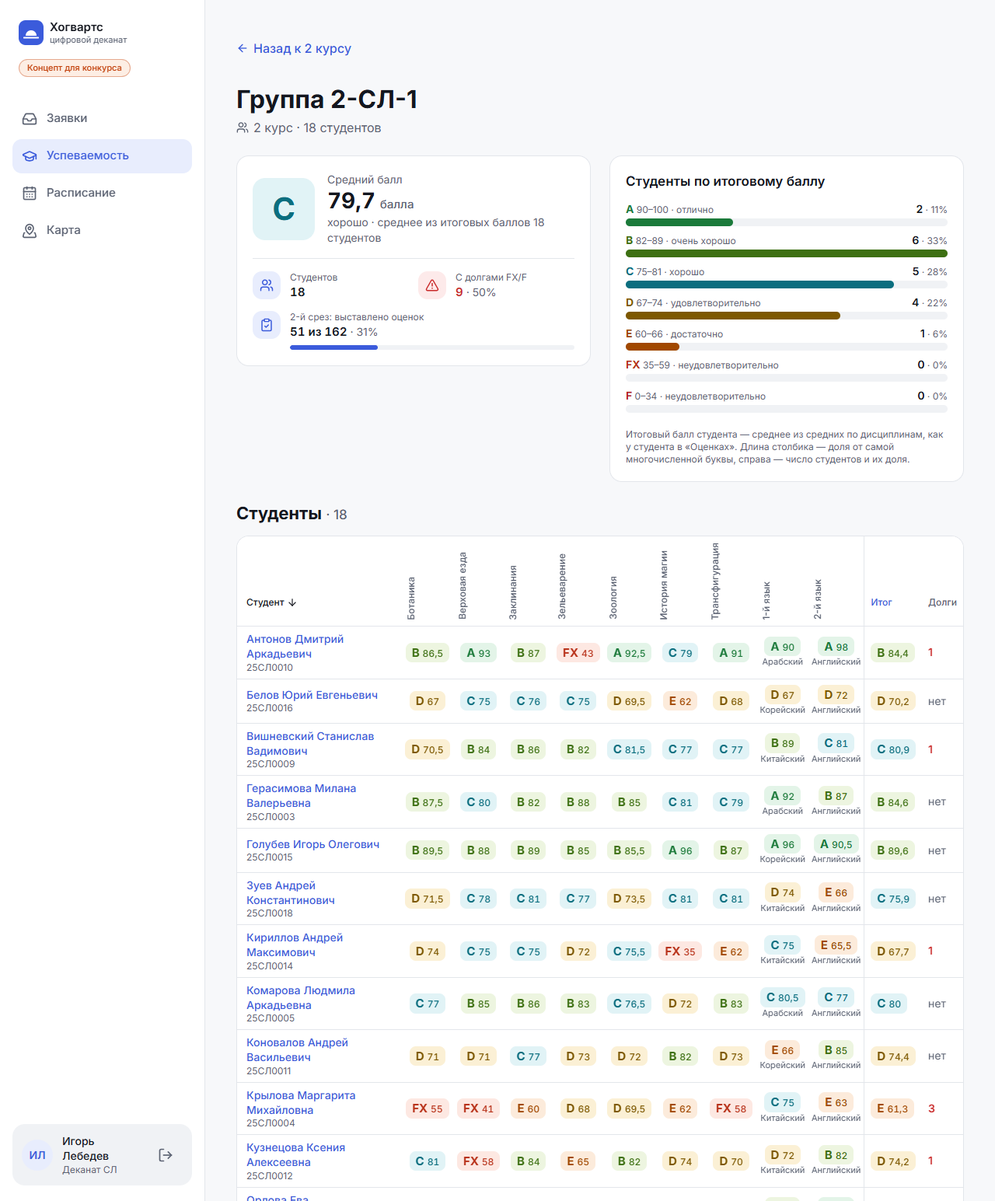
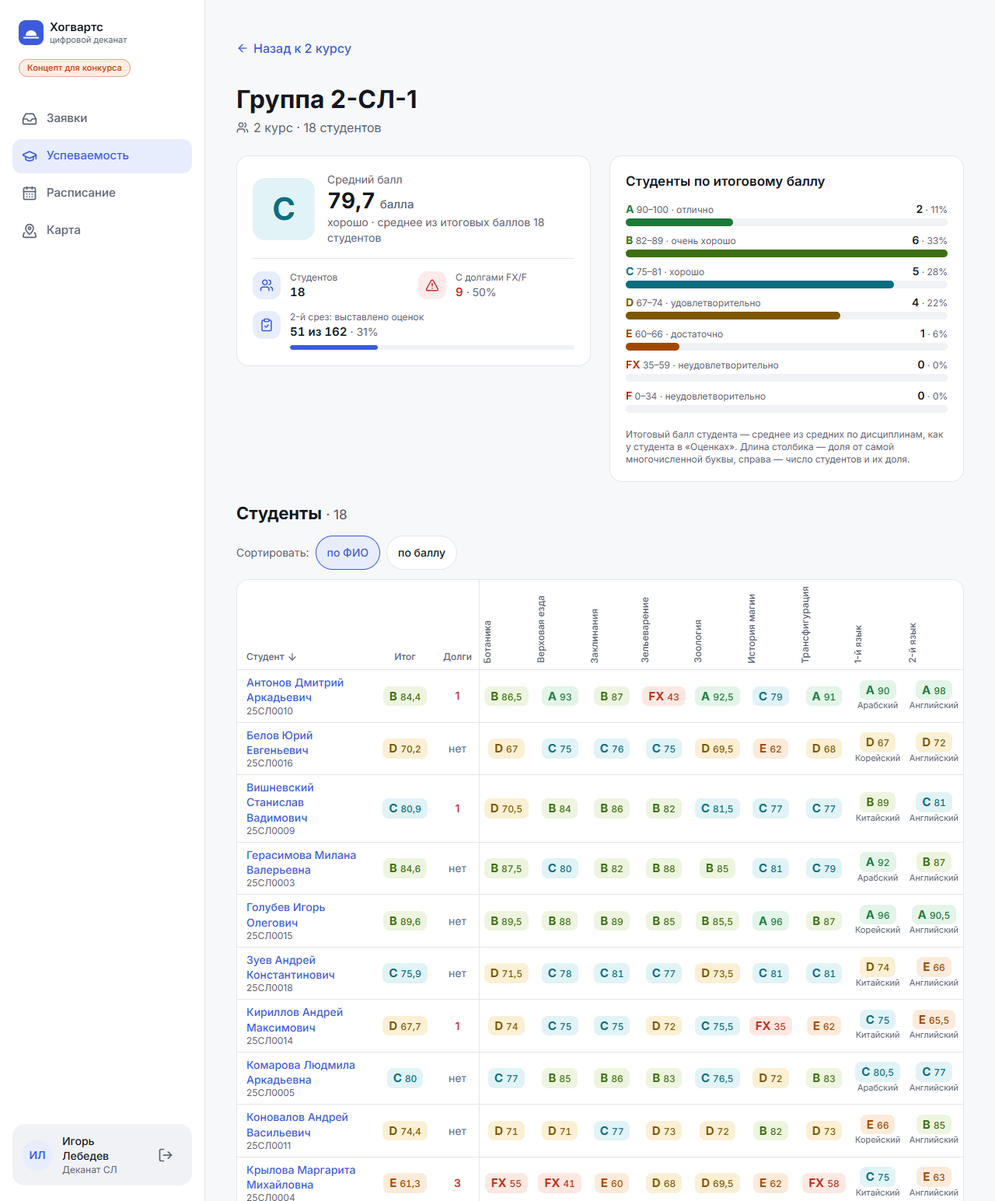
Уместить таблицу группы на ноутбуке: «Итог» и «Долги» рядом со студентом
- «Итог» и «Долги» — сразу после колонки «Студент» и липкие вместе с ней.
- На 1024–1279 px оценка в ячейке — буква над баллами (GradeBadge size="cell"),
  ячейки и подписи языков уже; с 1280 px — как раньше, в строку.
- Сортировка «по ФИО / по баллу» — чипами над таблицей на всех ширинах.
- Все 48 групп помещаются без прокрутки на 1024 и 1280; скриншоты 1280 и 1024.

diff --git a/components/dean-grades/group-table.tsx b/components/dean-grades/group-table.tsx
@@ -33,36 +33,38 @@ function Cell({ grade, label }: { grade: GroupCell["average"] | undefined; label
       </span>
     );
   }
-  return <GradeBadge grade={grade} size="sm" />;
+  return <GradeBadge grade={grade} size="cell" />;
 }
 
 const debtsLabel = (n: number) => `${n} ${plural(n, ["долг", "долга", "долгов"])}`;
 
 /**
- * Оценки группы. Компьютер (≥ 1024 px) — таблица «студенты × дисциплины»: средний балл по дисциплине
- * цветной буквой, итоговый балл, долги; липкие шапка и первая колонка, прокрутка внутри своей рамки.
- * Дисциплины языковых групп — колонки «1-й язык», «2-й язык» (у соседей это разные языки).
- * Телефон — список студентов с итоговым баллом и числом долгов. Клик по студенту — его оценки.
+ * Липкие слева колонки таблицы: «Студент», «Итог», «Долги» — главное видно без прокрутки на любой ширине.
+ * Ширины заданы явно (left следующей = сумма ширин предыдущих): ноутбук 1024 — уже, с xl — шире.
+ */
+const STICKY = {
+  student: "sticky left-0 w-40 min-w-40 max-w-40 xl:w-44 xl:min-w-44 xl:max-w-44",
+  overall: "sticky left-40 w-16 min-w-16 max-w-16 xl:left-44 xl:w-20 xl:min-w-20 xl:max-w-20",
+  debts: "sticky left-56 w-14 min-w-14 max-w-14 xl:left-64 border-r border-border",
+} as const;
+
+/**
+ * Оценки группы. Над списком/таблицей — сортировка чипами «по ФИО / по баллу» (на всех ширинах).
+ * Компьютер (≥ 1024 px) — таблица «студенты × дисциплины»: слева липкие «Студент», «Итог» и «Долги»,
+ * дальше средний балл по каждой дисциплине цветной буквой (до xl — буква над баллами, чтобы колонки были узкими);
+ * липкая шапка, прокрутка внутри своей рамки. Дисциплины языковых групп — колонки «1-й язык», «2-й язык»
+ * (у соседей это разные языки). Телефон — список студентов с итоговым баллом и числом долгов. Клик — оценки студента.
  */
 export function GroupTable({ data, sort, sortHref }: { data: GroupGrades; sort: GroupSort; sortHref: (s: GroupSort) => string }) {
   const rows = sortGroupRows(data.students, sort);
   const langCols = Array.from({ length: data.languageColumns }, (_, i) => i);
-
-  const sortLink = (s: GroupSort, label: string) => (
-    <Link
-      href={sortHref(s)}
-      scroll={false}
-      className={cn("inline-flex min-h-11 min-w-11 items-center gap-1 underline-offset-2 hover:underline", sort === s ? "text-text" : "text-primary")}
-    >
-      {label}
-      {sort === s && <ArrowDown className="size-3.5" aria-hidden />}
-      <span className="sr-only">{sort === s ? " — отсортировано" : " — сортировать"}</span>
-    </Link>
-  );
+  const head = "sticky top-0 border-b border-border bg-surface";
+  const cell = "border-b border-border group-hover:bg-surface-muted";
+  const foot = "sticky bottom-0 border-t border-border bg-surface-muted";
 
   return (
     <>
-      <div className="flex flex-wrap items-center gap-2 lg:hidden" role="group" aria-label="Сортировка">
+      <div className="flex flex-wrap items-center gap-2" role="group" aria-label="Сортировка студентов">
         <span className="text-sm text-muted">Сортировать:</span>
         {(["name", "overall"] as const).map((s) => (
           <Link
@@ -72,7 +74,7 @@ export function GroupTable({ data, sort, sortHref }: { data: GroupGrades; sort: 
             aria-current={sort === s ? "true" : undefined}
             className={cn(
               "inline-flex min-h-11 items-center rounded-full border px-3.5 text-sm font-medium",
-              sort === s ? "border-primary bg-primary-soft text-primary" : "border-border bg-surface text-text",
+              sort === s ? "border-primary bg-primary-soft text-primary" : "border-border bg-surface text-text hover:bg-surface-muted",
             )}
           >
             {s === "name" ? "по ФИО" : "по баллу"}
@@ -120,127 +122,134 @@ export function GroupTable({ data, sort, sortHref }: { data: GroupGrades; sort: 
       >
         <table className="w-full border-separate border-spacing-0 text-sm">
           <caption className="sr-only">
-            Средний балл студентов группы {data.group.name} по дисциплинам, итоговый балл и долги
+            Итоговый балл и долги студентов группы {data.group.name}, средний балл по каждой дисциплине
           </caption>
           <thead>
             <tr className="align-bottom text-xs text-muted">
               <th
                 scope="col"
                 aria-sort={sort === "name" ? "ascending" : "none"}
-                className="sticky top-0 left-0 z-30 min-w-40 border-b border-border bg-surface px-3 py-2 text-left font-medium"
+                className={cn(head, STICKY.student, "z-30 px-3 py-2 text-left font-medium")}
               >
-                {sortLink("name", "Студент")}
+                <span className="inline-flex items-center gap-1">
+                  Студент
+                  {sort === "name" && <ArrowDown className="size-3.5" aria-hidden />}
+                </span>
+              </th>
+              <th
+                scope="col"
+                aria-sort={sort === "overall" ? "descending" : "none"}
+                className={cn(head, STICKY.overall, "z-30 px-1.5 py-2 text-center font-medium")}
+              >
+                <span className="inline-flex items-center gap-0.5">
+                  Итог
+                  {sort === "overall" && <ArrowDown className="size-3.5" aria-hidden />}
+                </span>
+              </th>
+              <th scope="col" className={cn(head, STICKY.debts, "z-30 px-1.5 py-2 text-center font-medium")}>
+                Долги
               </th>
               {data.disciplines.map((d) => (
-                <th key={d.id} scope="col" title={d.name} className="sticky top-0 z-20 border-b border-border bg-surface px-1 py-2 font-medium">
+                <th key={d.id} scope="col" title={d.name} className={cn(head, "z-20 px-0.5 py-2 font-medium")}>
                   <span className="mx-auto block max-h-36 [writing-mode:vertical-rl] rotate-180 text-left leading-tight break-words">
                     {d.name}
                   </span>
                 </th>
               ))}
               {langCols.map((i) => (
-                <th key={`l${i}`} scope="col" className="sticky top-0 z-20 border-b border-border bg-surface px-1 py-2 font-medium">
+                <th key={`l${i}`} scope="col" className={cn(head, "z-20 px-0.5 py-2 font-medium")}>
                   <span className="mx-auto block max-h-36 [writing-mode:vertical-rl] rotate-180 text-left leading-tight">
                     {languageTitle(i + 1)}
                   </span>
                 </th>
               ))}
-              <th
-                scope="col"
-                aria-sort={sort === "overall" ? "descending" : "none"}
-                className="sticky top-0 z-20 border-b border-l border-border bg-surface px-2 py-2 text-left font-medium"
-              >
-                {sortLink("overall", "Итог")}
-              </th>
-              <th scope="col" className="sticky top-0 z-20 border-b border-border bg-surface px-2 py-2 text-left font-medium">
-                <span className="inline-flex min-h-11 items-center">Долги</span>
-              </th>
             </tr>
           </thead>
           <tbody>
             {rows.map((r) => (
               <tr key={r.recordBookNo} className="group">
-                <th
-                  scope="row"
-                  className="sticky left-0 z-10 border-b border-border bg-surface px-3 py-1.5 text-left font-normal group-hover:bg-surface-muted"
-                >
+                <th scope="row" className={cn(cell, STICKY.student, "z-10 bg-surface px-3 py-1.5 text-left font-normal")}>
                   <Link href={deanStudentHref(r.recordBookNo)} className="flex min-h-11 flex-col justify-center">
-                    <span className="leading-snug font-medium text-primary underline-offset-2 hover:underline">{r.fullName}</span>
+                    <span className="leading-snug font-medium break-words text-primary underline-offset-2 hover:underline">
+                      {r.fullName}
+                    </span>
                     <span className="text-xs text-muted">{r.recordBookNo}</span>
                   </Link>
                 </th>
+                <td className={cn(cell, STICKY.overall, "z-10 bg-surface px-1 py-1.5 text-center")}>
+                  {r.overall ? <GradeBadge grade={r.overall} size="cell" /> : <span className="text-muted">—</span>}
+                </td>
+                <td className={cn(cell, STICKY.debts, "z-10 bg-surface px-1 py-1.5 text-center")}>
+                  {r.debts.length === 0 ? (
+                    <span className="text-muted">нет</span>
+                  ) : (
+                    <span className="font-semibold text-danger" title={r.debts.map((d) => `${d.letter} — ${d.discipline}`).join(", ")}>
+                      {r.debts.length}
+                      <span className="sr-only">: {r.debts.map((d) => `${d.letter} — ${d.discipline}`).join(", ")}</span>
+                    </span>
+                  )}
+                </td>
                 {data.disciplines.map((d) => (
-                  <td key={d.id} className="border-b border-border px-1 py-1.5 text-center group-hover:bg-surface-muted">
+                  <td key={d.id} className={cn(cell, "px-0.5 py-1.5 text-center")}>
                     <Cell grade={d.id in r.cells ? r.cells[d.id] : undefined} label={d.name} />
                   </td>
                 ))}
                 {langCols.map((i) => {
                   const items = r.languages[i] ?? [];
                   return (
-                    <td key={`l${i}`} className="border-b border-border px-1 py-1.5 text-center group-hover:bg-surface-muted">
+                    <td key={`l${i}`} className={cn(cell, "px-0.5 py-1.5 text-center")}>
                       {items.length === 0 ? (
                         <Cell grade={undefined} label={languageTitle(i + 1)} />
                       ) : (
                         items.map((it) => (
-                          <span key={it.disciplineId} className="flex flex-col items-center" title={`${it.discipline}: ${it.average ? formatScored(it.average) : "нет оценок"}`}>
+                          <span
+                            key={it.disciplineId}
+                            className="flex flex-col items-center"
+                            title={`${it.discipline}: ${it.average ? formatScored(it.average) : "нет оценок"}`}
+                          >
                             <Cell grade={it.average} label={it.discipline} />
-                            <span className="max-w-20 truncate text-[11px] text-muted">{it.discipline.split(" ")[0]}</span>
+                            <span className="max-w-12 truncate text-[10px] text-muted xl:max-w-16 xl:text-[11px]">
+                              {it.discipline.split(" ")[0]}
+                            </span>
                           </span>
                         ))
                       )}
                     </td>
                   );
                 })}
-                <td className="border-b border-l border-border px-2 py-1.5 group-hover:bg-surface-muted">
-                  {r.overall ? <GradeBadge grade={r.overall} size="sm" /> : <span className="text-muted">—</span>}
-                </td>
-                <td className="border-b border-border px-2 py-1.5 group-hover:bg-surface-muted">
-                  {r.debts.length === 0 ? (
-                    <span className="text-muted">нет</span>
-                  ) : (
-                    <span
-                      className="font-semibold text-danger"
-                      title={r.debts.map((d) => `${d.letter} — ${d.discipline}`).join(", ")}
-                    >
-                      {r.debts.length}
-                      <span className="sr-only">: {r.debts.map((d) => `${d.letter} — ${d.discipline}`).join(", ")}</span>
-                    </span>
-                  )}
-                </td>
               </tr>
             ))}
           </tbody>
           <tfoot>
             <tr className="text-xs">
-              <th scope="row" className="sticky bottom-0 left-0 z-30 border-t border-border bg-surface-muted px-3 py-2 text-left font-medium">
+              <th scope="row" className={cn(foot, STICKY.student, "z-30 px-3 py-2 text-left font-medium")}>
                 Средний по группе
               </th>
+              <td className={cn(foot, STICKY.overall, "z-30 px-1 py-2 text-center")}>
+                {data.summary.average ? <GradeBadge grade={data.summary.average} size="cell" /> : <span className="text-muted">—</span>}
+              </td>
+              <td className={cn(foot, STICKY.debts, "z-30 px-1 py-2 text-center font-semibold text-danger")}>
+                {data.summary.withDebt > 0 ? data.summary.withDebt : <span className="font-normal text-muted">нет</span>}
+              </td>
               {data.disciplines.map((d) => (
-                <td key={d.id} className="sticky bottom-0 z-20 border-t border-border bg-surface-muted px-1 py-2 text-center">
+                <td key={d.id} className={cn(foot, "z-20 px-0.5 py-2 text-center")}>
                   <Cell grade={d.average} label={d.name} />
                 </td>
               ))}
               {langCols.map((i) => (
-                <td key={`l${i}`} className="sticky bottom-0 z-20 border-t border-border bg-surface-muted px-1 py-2 text-center text-muted">
+                <td key={`l${i}`} className={cn(foot, "z-20 px-0.5 py-2 text-center text-muted")}>
                   <span aria-hidden>·</span>
                   <span className="sr-only">разные языки</span>
                 </td>
               ))}
-              <td className="sticky bottom-0 z-20 border-t border-l border-border bg-surface-muted px-2 py-2">
-                {data.summary.average ? <GradeBadge grade={data.summary.average} size="sm" /> : <span className="text-muted">—</span>}
-              </td>
-              <td className="sticky bottom-0 z-20 border-t border-border bg-surface-muted px-2 py-2 font-semibold text-danger">
-                {data.summary.withDebt > 0 ? data.summary.withDebt : <span className="font-normal text-muted">нет</span>}
-              </td>
             </tr>
           </tfoot>
         </table>
       </div>
       <p className="hidden text-xs text-muted lg:block">
         В ячейке — средний балл по выставленным срезам. «—» — оценок пока нет, «·» — дисциплины у студента нет. В строке
-        «Средний по группе» — среднее из средних студентов, в колонке «Долги» итога — студентов с долгами.
+        «Средний по группе» — среднее из средних студентов, в колонке «Долги» — студентов с долгами.
       </p>
     </>
   );
 }
-

diff --git a/components/grades/grade-badge.tsx b/components/grades/grade-badge.tsx
@@ -5,6 +5,12 @@ import { cn } from "@/lib/utils";
 const SIZES = {
   sm: { box: "gap-1 rounded-lg px-2 py-0.5", letter: "text-[15px]", points: "text-xs" },
   md: { box: "gap-1.5 rounded-xl px-2.5 py-1", letter: "text-[20px]", points: "text-sm" },
+  /** Ячейка широкой таблицы: на ноутбуке (до xl) — буква над баллами, узкая; с xl — как sm */
+  cell: {
+    box: "gap-1 rounded-lg px-2 py-0.5 max-xl:flex-col max-xl:items-center max-xl:gap-0 max-xl:px-1.5 max-xl:py-1",
+    letter: "text-[15px] max-xl:text-[13px] max-xl:leading-none",
+    points: "text-xs max-xl:text-[11px] max-xl:leading-tight",
+  },
 } as const;
 
 /**

diff --git a/docs/DESIGN.md b/docs/DESIGN.md
@@ -91,7 +91,7 @@ _План (ещё не сделано):_ колокольчик уведомле
 | `CheckpointTrendChart`, `DisciplineAveragesChart` | графики «Динамика по срезам» и «Средний балл по дисциплинам» — свой SVG, только токены; неполный срез — полая точка, пунктир и «по N из M» |
 | `SemesterSwitcher` | сегменты семестров (ссылки); сегмент ≥ 48 px, текущий — с подписью; не помещаются (4-й курс на телефоне) — ряд прокручивается, правый край «тает» |
 | `TodayGradesLink` | блок «Оценки» на «Сегодня»: итоговый балл, последняя оценка, «Ниже порога: N» |
-| `CohortSummaryCard`, `LetterDistribution`, `CourseGroups`, `RiskList`, `JournalFillList`, `GroupTable`, `StudentSearch` | «Успеваемость» деканата (`components/dean-grades/`): сводка курса/группы, распределение по буквам (свой SVG), группы (таблица ≥ 1024 px / карточки), группа риска с фильтром-ссылками по дисциплине, заполнение журналов, таблица группы «студенты × дисциплины» (липкие шапка, первая колонка и строка «Средний по группе», прокрутка внутри рамки; телефон — список), поиск студента с подсказками. Студент для деканата — те же `GradesSummary`/`DisciplineCard` с `viewer="staff"` (без советов «спросите…») |
+| `CohortSummaryCard`, `LetterDistribution`, `CourseGroups`, `RiskList`, `JournalFillList`, `GroupTable`, `StudentSearch` | «Успеваемость» деканата (`components/dean-grades/`): сводка курса/группы, распределение по буквам (свой SVG), группы (таблица ≥ 1024 px / карточки), группа риска с фильтром-ссылками по дисциплине, заполнение журналов, таблица группы «студенты × дисциплины» (липкие шапка, колонки «Студент», «Итог», «Долги» слева и строка «Средний по группе», прокрутка внутри рамки; на 1024–1279 px оценка в ячейке — буква над баллами (`GradeBadge size="cell"`), чтобы таблица помещалась; сортировка «по ФИО / по баллу» — чипами над таблицей на всех ширинах; телефон — список), поиск студента с подсказками. Студент для деканата — те же `GradesSummary`/`DisciplineCard` с `viewer="staff"` (без советов «спросите…») |
 | `AssignmentCard`, `JournalGroups`, `JournalEditor` | журнал преподавателя: карточки групп с прогрессом срезов; редактор оценок — таблица на ≥ 1024 px, карточки студентов на телефоне (`components/journal/`) |
 | `StatusBadge` | заявки: Подана · В работе · Готова · Выдана · Отклонена |
 | `StatusTimeline` | детальная страница заявки: пройденные шаги, текущий, будущие |

diff --git a/docs/specs/dean-grades.md b/docs/specs/dean-grades.md
@@ -37,7 +37,8 @@
      самые отстающие (видно, кто не выставил).
    - «Группа риска»: студенты курса с непогашенным FX/F (ФИО, зачётка, группа, дисциплины), с фильтром по дисциплине.
 2. `/staff/grades/group/[groupId]` — **группа**: компьютер — таблица «студенты × дисциплины» (средний балл
-   по дисциплине цветной буквой, итоговый балл, долги), липкие шапка и первая колонка, сортировка по ФИО / баллу;
+   по дисциплине цветной буквой, итоговый балл, долги), липкие шапка и колонки «Студент», «Итог», «Долги» (сразу после ФИО),
+   сортировка по ФИО / баллу чипами над таблицей;
    телефон — список студентов с итоговым баллом и числом долгов. Клик → студент.
 3. `/staff/grades/student/[recordBookNo]` — **студент по номеру зачётки**: шапка (ФИО, зачётка, группа, курс),
    тот же набор блоков, что видит студент на `/grades` (сводка, графики, карточки дисциплин) — переиспользовать
